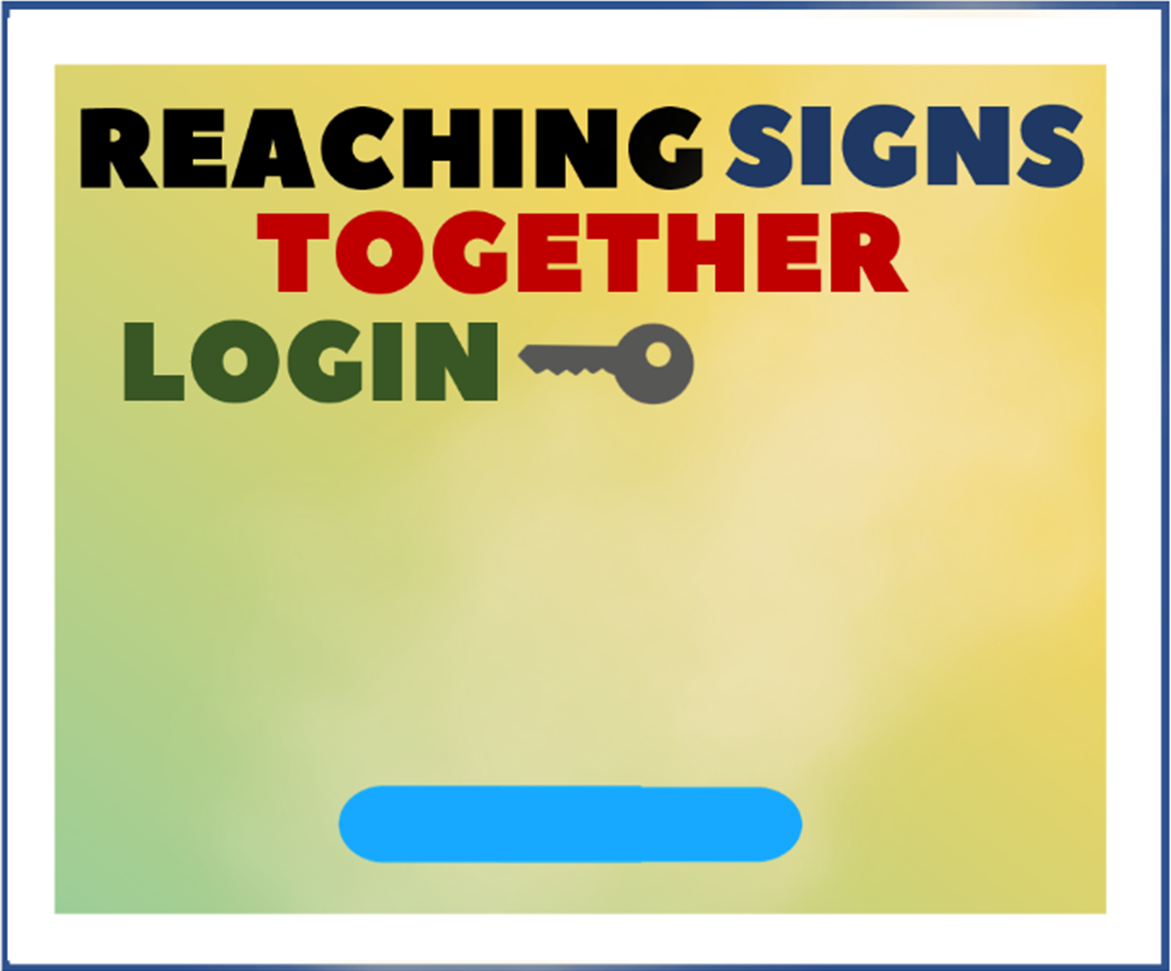
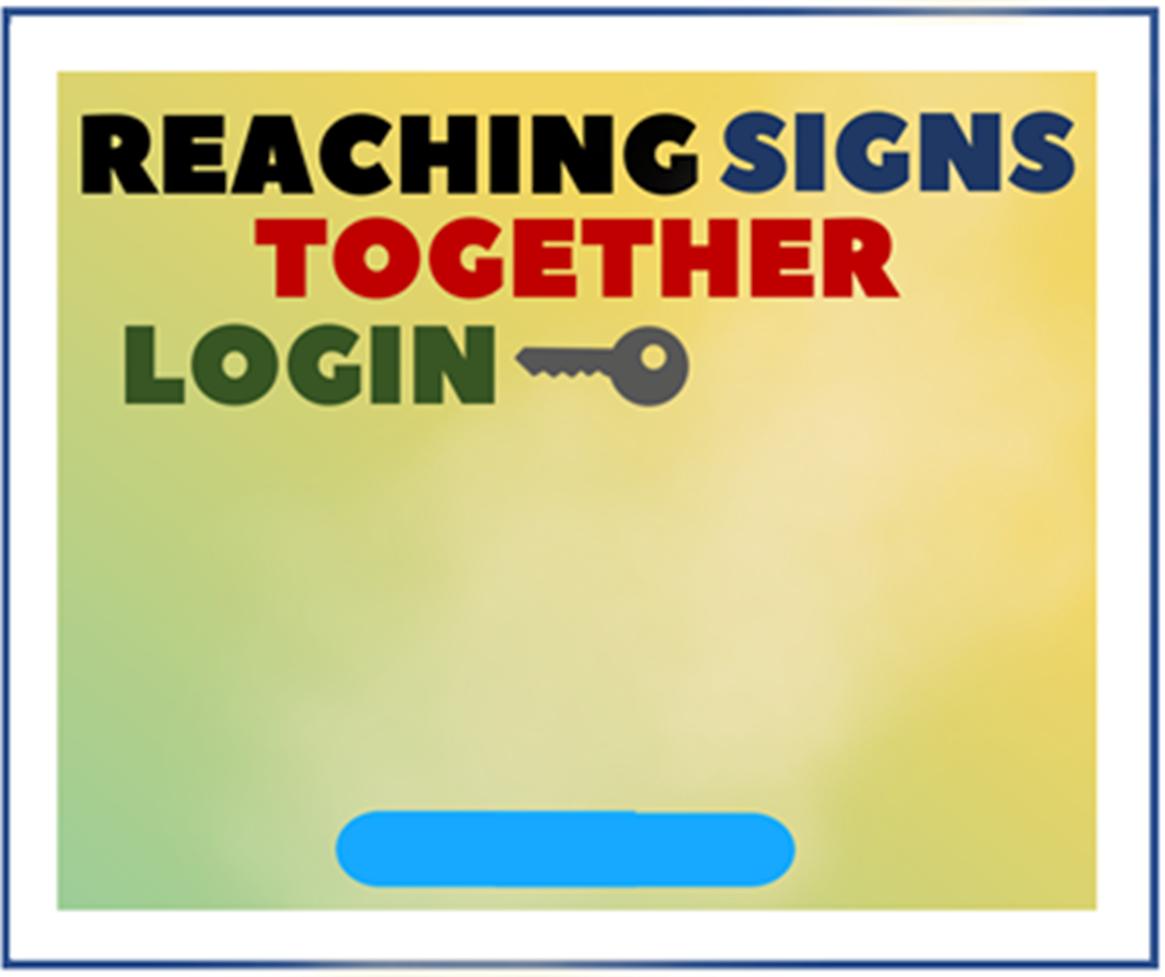
finished updating user interface

diff --git a/heart.py b/heart.py
@@ -4,17 +4,17 @@ import os
 from PIL import ImageTk, Image
 
 def login_success():
-    Label(screen2, text = "Login Success", fg="green", font=("Calibri", 11)).pack()
+    Label(screen2, text = "Login Success!", fg="green", font='Arial 11 bold').pack()
     global screen3 
     screen3 = Toplevel(screen)
-    screen3.title("We Sign Together Muse")
+    screen3.title("Reaching Signs Together")
     screen3.geometry("750x490")
 
 def password_not_recognized():
-    Label(screen2, text = "Password does not match username.", fg="red", font=("Calibri", 11)).pack()
+    Label(screen2, text = "Password does not match username.", fg="red", font='Arial 11 bold').pack()
     
 def user_not_found():
-    Label(screen2, text = "Username not found.", fg="red", font=("Calibri", 11)).pack()    
+    Label(screen2, text = "Username not found.", fg="red", font='Arial 11 bold').pack()    
 
 def register_user():
     username_info = username.get()
@@ -29,7 +29,7 @@ def register_user():
     username_entry.delete(0, END)
     password_entry.delete(0, END)
 
-    Label(screen1, text = "Registration Success", fg="green", font=("Calibri", 11)).pack()
+    Label(screen1, text = "Registration Success. You may now login.", fg="green", font='Arial 11 bold').pack()
 
 def login_verify():
     username1 = username_verify.get()
@@ -51,11 +51,17 @@ def login_verify():
         user_not_found()
 
 def register():
+    FILENAME2 = "gestureRegister.png"
+
     global screen1
     screen1 = Toplevel(screen)
-    screen1.title("Register: We Sign Together Muse")
-    screen1.geometry("200x250")
+    screen1.title("Register: Reaching Signs Together")
+    canvas2 = tk.Canvas(screen1, width=400, height=350)
+    canvas2.pack()
     
+    tk_img2 = ImageTk.PhotoImage(Image.open(FILENAME2).resize((400, 350)))
+    canvas2.create_image(0, 0, image=tk_img2, anchor='nw')
+
     global username 
     global password 
 
@@ -65,16 +71,24 @@ def register():
     global username_entry 
     global password_entry 
 
-    Label(screen1, text = "Please enter details below.").pack()
-    Label(screen1, text = "").pack()
-    Label(screen1, text = "Username * ").pack()
-    username_entry = Entry(screen1, textvariable= username)
-    username_entry.pack()
-    Label(screen1, text = "Password * ").pack()
-    password_entry = Entry(screen1, textvariable = password)
-    password_entry.pack()
-    Label(screen1, text = "").pack()
-    Button(screen1, text = "Register", width= 10, height = 1, command=register_user).pack()
+    username_title1 = Label(screen1, text = "Enter username for new account.", font='Arial 8 bold')
+    username_window1 = canvas2.create_window(114, 165, anchor='nw', window=username_title1)
+
+    username_entry = Entry(screen1, textvariable=username)
+    username_entry_window = canvas2.create_window(114, 190, anchor='nw', window=username_entry)
+
+    password_title1 = Label(screen1, text = "Set password for your new account.", font='Arial 8 bold')
+    password_window1 = canvas2.create_window(114, 220, anchor='nw', window=password_title1)
+
+    password_entry = Entry(screen1, textvariable=password)
+    password_entry_window = canvas2.create_window(114, 245, anchor='nw', window=password_entry)
+    
+    register_button1 = tk.Button(screen1, highlightthickness=0, text = "R E G I S T E R", command=register_user, anchor = 'w',
+                    width = 10, activebackground = "#16A9FF", bd=0, bg="#16A9FF",fg="#FFFFFF", font='Arial 8 bold')
+                                               #second number is up and down
+    register_button_window = canvas2.create_window(160, 290, anchor='nw', window=register_button1)
+
+    screen1.mainloop()
 
 def login():
     FILENAME1 = "gestureLogin.png"
@@ -88,28 +102,36 @@ def login():
     tk_img1 = ImageTk.PhotoImage(Image.open(FILENAME1).resize((400, 350)))
     canvas1.create_image(0, 0, image=tk_img1, anchor='nw')
 
-    Label(screen2, text = "Please enter details below to login.").pack()
-    Label(screen2, text = "").pack()
+    #directions = Label(screen2, text = "Please enter details below to login.", font='Arial 8 bold')
+    #directions_window = canvas1.create_window(44, 160, anchor='nw', window=directions)
 
+    global username_verify 
+    global password_verify 
 
-    #global username_verify 
-    #global password_verify 
+    username_verify = StringVar()
+    password_verify = StringVar()
 
-    #username_verify = StringVar()
-    #password_verify = StringVar()
+    global username_entry1
+    global password_entry1
 
-    #global username_entry1
-    #global password_entry1
+    username_title = Label(screen2, text = "Username", font='Arial 8 bold')
+    username_window = canvas1.create_window(114, 165, anchor='nw', window=username_title)
 
-    #Label(screen2, text = "Username * ").pack()
-    #username_entry1 = Entry(screen2, textvariable=username_verify)
-    #username_entry1.pack()
-    #Label(screen2, text = "").pack()    
-    #Label(screen2, text = "Password * ").pack()
-    #password_entry1 = Entry(screen2, textvariable=password_verify)
-    #password_entry1.pack()
-    #Label(screen2, text = "").pack()    
-    #Button(screen2, text = "Login", width = 10, height = 1, command = login_verify).pack()
+    username_entry1 = Entry(screen2, textvariable=username_verify)
+    username_entry1_window = canvas1.create_window(114, 190, anchor='nw', window=username_entry1)
+
+    password_title = Label(screen2, text = "Password", font='Arial 8 bold')
+    password_window = canvas1.create_window(114, 220, anchor='nw', window=password_title)
+
+    password_entry1 = Entry(screen2, textvariable=password_verify)
+    password_entry1_window = canvas1.create_window(114, 245, anchor='nw', window=password_entry1)
+   
+    login_button1 = tk.Button(screen2, highlightthickness=0, text = "L O G I N", command=login_verify, anchor = 'w',
+                    width = 10, activebackground = "#16A9FF", bd=0, bg="#16A9FF",fg="#FFFFFF", font='Arial 8 bold')
+                                               #second number is up and down
+    login_button_window = canvas1.create_window(165, 295, anchor='nw', window=login_button1)
+
+    screen2.mainloop()
     
 
 def main_screen():
